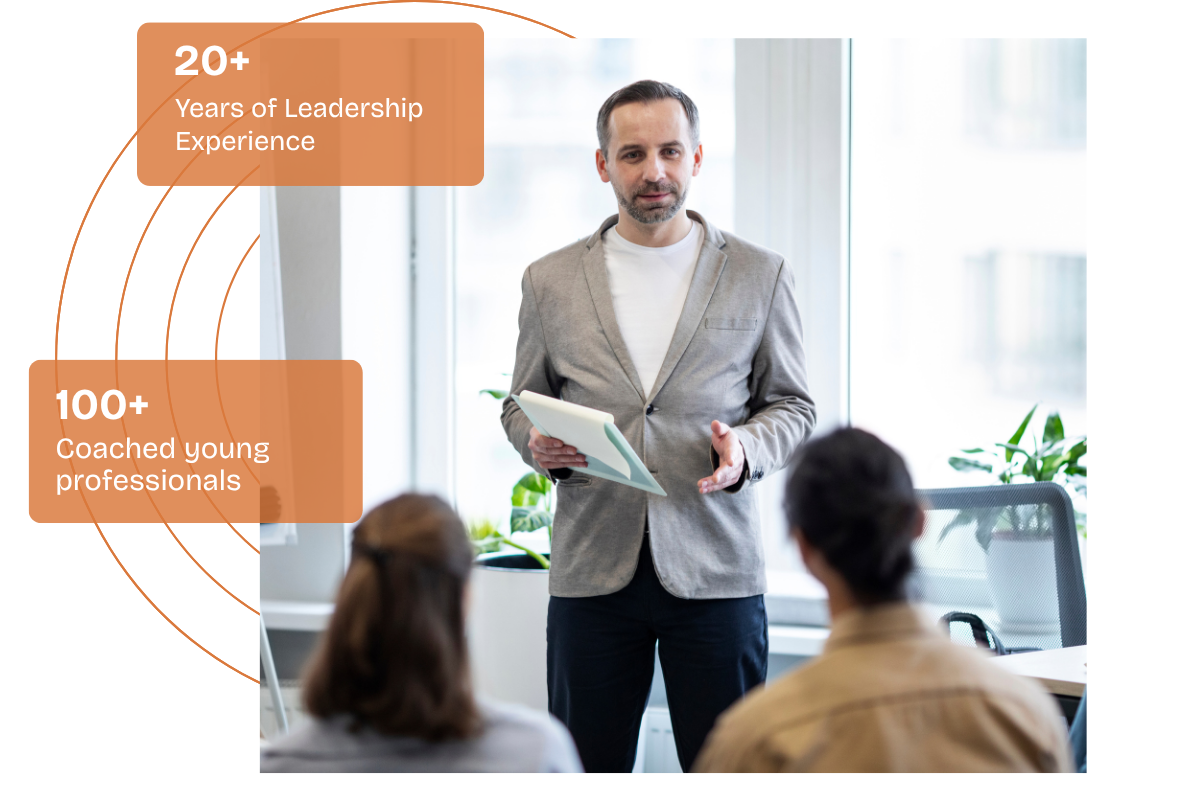
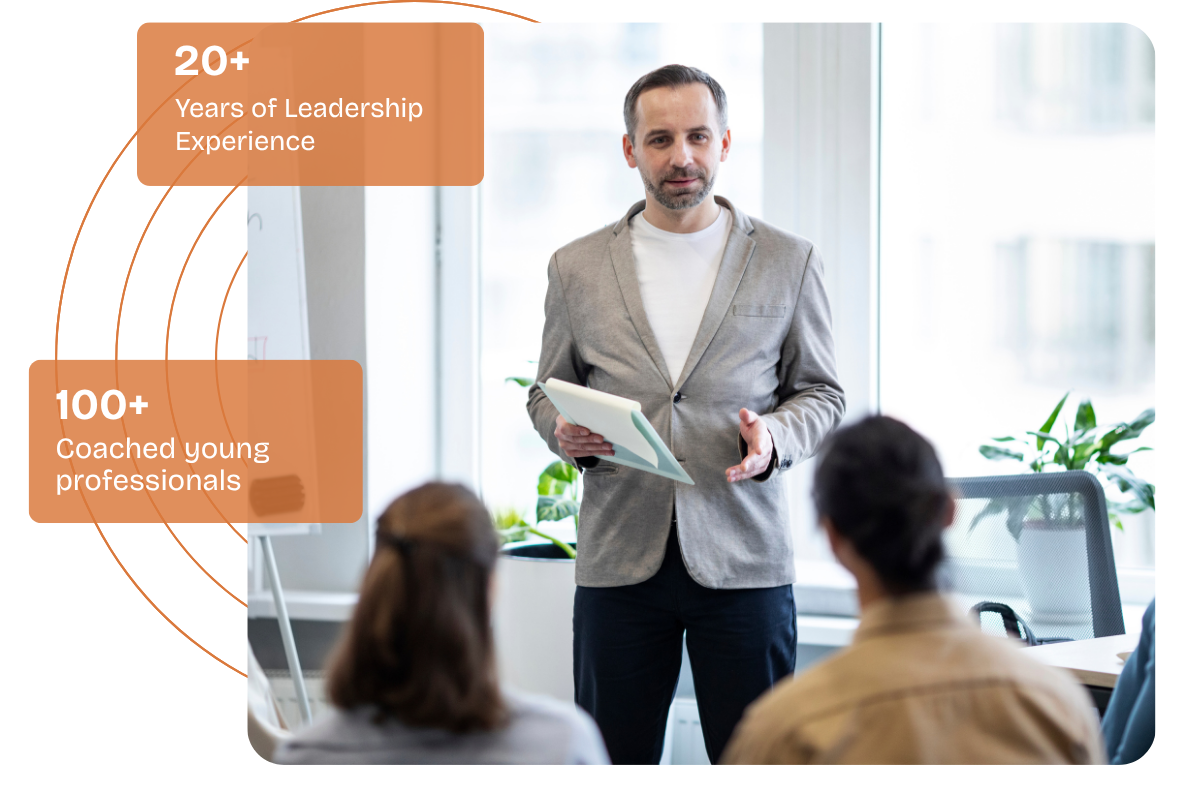
final chnages

diff --git a/src/components/About.jsx b/src/components/About.jsx
@@ -3,51 +3,56 @@ import Maxwrapper from "./Maxwrapper";
 
 const About = () => {
   return (
-    
     <section id="about" className="bg-[#fdf8f4] text-[#1a1a1a] py-20 px-6 ">
-      <div className="max-w-7xl mx-auto grid md:grid-cols-2 gap-16 items-center">
-        <div className="w-full">
-          <img
-            src="./about.webp"
-            className="w-full rounded-3xl h-[400px] object-cover shadow-lg" 
-          />
-        </div>
+      <div className="max-w-7xl mx-auto grid  md:grid-cols-2 gap-16 items-center">
+        
 
         <div className="space-y-6">
-          <p className="text-sm font-semibold text-[#D9783C] tracking-wider uppercase"> 
-            ABOUT US 
+          <p className="text-sm font-semibold text-[#D9783C] tracking-wider uppercase">
+            ABOUT US
           </p>
-          <h2 className="text-3xl sm:text-6xl font-bold text-[#1a1a1a]/90 w-[40vw]">
-            Why you should choose <span className="text-[#D9783C]"> Michael Herz</span>
+          <h2 className="text-3xl sm:text-6xl font-bold text-[#1a1a1a]/90 md:w-[40vw] w-[70vw]">
+            Why you should choose{" "}
+            <span className="text-[#D9783C]"> Michael Herz</span>
           </h2>
           <p className="text-lg text-gray-600 leading-relaxed">
-           Michael Herz is more than a coach. he’s someone who’s lived the journey. With over 20 years of leadership experience, he now empowers early-career professionals to overcome self doubt, manage stress, and lead with confidence. His coaching isn’t about perfection. it’s about showing up with clarity, presence, and authenticity in a world that often demands otherwise.
+            Michael Herz is more than a coach. he’s someone who’s lived the
+            journey. With over 20 years of leadership experience, he now
+            empowers early-career professionals to overcome self doubt, manage
+            stress, and lead with confidence. His coaching isn’t about
+            perfection. it’s about showing up with clarity, presence, and
+            authenticity in a world that often demands otherwise.
           </p>
 
           <div className="pt-4">
             <a
-  href="https://www.linkedin.com/in/michaelherzpmp/"
-  target="_blank"
-  rel="noopener noreferrer"
-  className="inline-flex items-center text-[#D9783C] font-semibold hover:text-[#D9783C]/90 transition-colors duration-300 group"
->
-  Learn More
-  <svg 
-    className="ml-2 w-5 h-5 transform transition-transform duration-300 group-hover:translate-x-1" 
-    fill="none" 
-    stroke="currentColor" 
-    viewBox="0 0 24 24"
-  >
-    <path 
-      strokeLinecap="round" 
-      strokeLinejoin="round" 
-      strokeWidth={2} 
-      d="M17 8l4 4m0 0l-4 4m4-4H3" 
-    />
-  </svg>
-</a>
-
+              href="https://www.linkedin.com/in/michaelherzpmp/"
+              target="_blank"
+              rel="noopener noreferrer"
+              className="inline-flex items-center text-[#D9783C] font-semibold hover:text-[#D9783C]/90 transition-colors duration-300 group"
+            >
+              Learn More
+              <svg
+                className="ml-2 w-5 h-5 transform transition-transform duration-300 group-hover:translate-x-1"
+                fill="none"
+                stroke="currentColor"
+                viewBox="0 0 24 24"
+              >
+                <path
+                  strokeLinecap="round"
+                  strokeLinejoin="round"
+                  strokeWidth={2}
+                  d="M17 8l4 4m0 0l-4 4m4-4H3"
+                />
+              </svg>
+            </a>
           </div>
+        </div>
+        <div className="w-full">
+          <img
+            src="./about.webp"
+            className="w-full rounded-3xl h-[400px] object-cover shadow-lg"
+          />
         </div>
       </div>
     </section>

diff --git a/src/components/Services.jsx b/src/components/Services.jsx
@@ -19,8 +19,8 @@ const Services = () => {
   ];
 
   return (
-    <section className="relative py-16 px-6 bg-gray-50" id="services">
-      {/* Light background accents */}
+    <section className="relative py-16 px-6 bg-[#f5e8e0]" id="services">
+      {/* Background accents */}
       <div className="absolute inset-0 opacity-10 pointer-events-none">
         <div className="absolute top-10 left-10 w-32 h-32 border-2 border-[#D9783C] rounded-full"></div>
         <div className="absolute bottom-20 right-20 w-24 h-24 border-2 border-[#D9783C] rounded-full"></div>
@@ -43,24 +43,22 @@ const Services = () => {
         </div>
 
         {/* Cards */}
-        <div className="grid md:grid-cols-3 gap-6">
-          {services.map((service, idx) => {
+        <div className="grid sm:grid-cols-2 md:grid-cols-3 gap-6">
+          {services.map((service) => {
             const Icon = service.icon;
             return (
               <div
-                key={idx}
-                className={`bg-white group rounded-2xl p-8 shadow hover:shadow-lg transition-all duration-300 hover:-translate-y-2 relative overflow-hidden cursor-pointer`}
+                key={service.title}
+                className="bg-white group rounded-2xl p-6 sm:p-8 shadow hover:shadow-lg transition-all duration-300 hover:-translate-y-2 relative overflow-hidden cursor-pointer"
               >
                 {/* Icon */}
-                <div
-                  className={`w-16 h-16 bg-[#D9783C] rounded-full flex items-center justify-center mb-6 transition-all duration-300 group-hover:bg-white`}
-                >
-                  <Icon className="w-8 h-8 text-white group-hover:text-[#D9783C] transition-colors duration-300" />
+                <div className="w-14 h-14 sm:w-16 sm:h-16 bg-[#D9783C] rounded-full flex items-center justify-center mb-6 transition-all duration-300 group-hover:bg-white">
+                  <Icon className="w-6 h-6 sm:w-8 sm:h-8 text-white group-hover:text-[#D9783C] transition-colors duration-300" />
                 </div>
 
                 {/* Text */}
                 <div className="transition-all duration-300 group-hover:text-white">
-                  <h3 className="text-xl font-bold text-[#1a1a1a]/90 mb-4 group-hover:text-white">
+                  <h3 className="text-lg sm:text-xl font-bold text-[#1a1a1a]/90 mb-4 group-hover:text-white">
                     {service.title}
                   </h3>
                   <p className="text-sm leading-relaxed mb-6 text-gray-600 group-hover:text-white">
@@ -69,8 +67,8 @@ const Services = () => {
 
                   {/* Index */}
                   <div className="flex justify-end">
-                    <span className="text-2xl font-bold text-[#D9783C] text-opacity-30 group-hover:text-white group-hover:text-opacity-50 transition-colors duration-300">
-                      0{idx + 1}
+                    <span className="text-xl sm:text-2xl font-bold text-[#D9783C] text-opacity-30 group-hover:text-white group-hover:text-opacity-50 transition-colors duration-300">
+                      0{services.indexOf(service) + 1}
                     </span>
                   </div>
                 </div>
@@ -88,7 +86,7 @@ const Services = () => {
             href="https://www.linkedin.com/in/michaelherzpmp/"
             target="_blank"
             rel="noopener noreferrer"
-            className="bg-[#D9783C] hover:bg-[#bd5f2b] text-white font-semibold px-10 py-4 rounded-full transition-all duration-300 hover:scale-105 shadow"
+            className="inline-block bg-[#D9783C] hover:bg-[#bd5f2b] text-white font-semibold px-4 sm:px-10 py-4 rounded-full transition-all duration-300 hover:scale-105 shadow whitespace-nowrap"
           >
             Start Your Career With Confidence
           </a>

diff --git a/src/components/Navbar.jsx b/src/components/Navbar.jsx
@@ -86,13 +86,7 @@ const Navbar = () => {
 
         {/* Mobile Menu */}
         {isOpen && (
-          <div
-            className={`md:hidden mt-4 space-y-4 text-sm font-medium transition-all duration-300 ${
-              isScrolled
-                ? "bg-[#151414]/90 backdrop-blur-lg rounded-2xl mx-4 p-4 border border-white/10"
-                : ""
-            }`}
-          >
+          <div className="md:hidden mt-4 mx-4 p-4 bg-[#151414]/90 backdrop-blur-lg rounded-2xl border border-white/10 space-y-4 text-sm font-medium transition-all duration-300">
             {navLinks.map((link) => (
               <a
                 key={link.name}

diff --git a/src/components/Hero.jsx b/src/components/Hero.jsx
@@ -5,7 +5,7 @@ import Maxwrapper from "./Maxwrapper";
 const Hero = () => {
   return (
     <Maxwrapper>
-      <div className="flex flex-col-reverse md:flex-row gap-9 items-center justify-center min-h-screen px-6 py-12">
+      <div className="flex flex-col md:flex-row gap-9 items-center justify-center min-h-screen px-6 py-12">
         
         <motion.div
           initial={{ opacity: 0, x: -50 }}

diff --git a/src/components/Testimonials.jsx b/src/components/Testimonials.jsx
@@ -131,7 +131,7 @@ const Testimonials = () => {
                   <img
                     src={testimonials[currentSlide].image}
                     alt={testimonials[currentSlide].name}
-                    className="w-full h-full object-cover"
+                    className="w-full h-full object-cover rounded-full"
                   />
                 </div>
                 <div>
